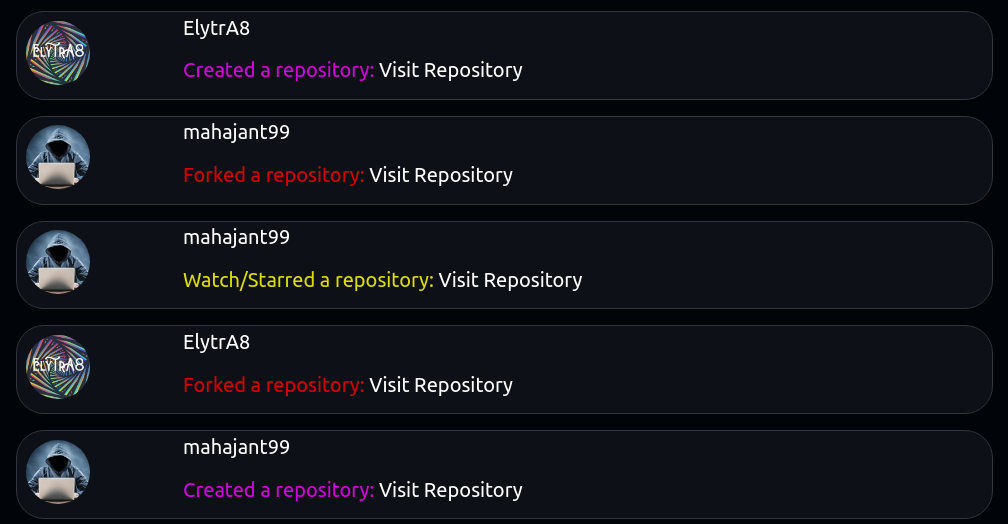
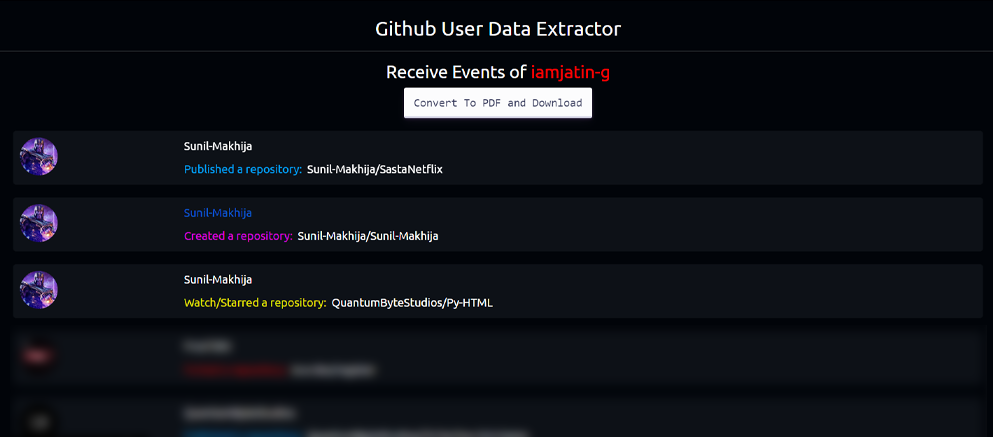
Updated: Latest Screenshots

diff --git a/Data/ReceivedEvents/index.html b/Data/ReceivedEvents/index.html
@@ -1,0 +1,302 @@
+
+	<head>
+        <link href="https://cdn.jsdelivr.net/npm/bootstrap@5.1.3/dist/css/bootstrap.min.css" rel="stylesheet" integrity="sha384-1BmE4kWBq78iYhFldvKuhfTAU6auU8tT94WrHftjDbrCEXSU1oBoqyl2QvZ6jIW3" crossorigin="anonymous">
+    	<link rel="stylesheet" type="text/css" href="style.css">
+        <title>GUDE: iamjatin-g</title>
+        <script src="main.js"></script>
+	</head>
+    <center>
+        <br>
+        <a href="https://github.com/QuantumByteStudios/GitHubUserDataExtracter">
+            <h2>Github User Data Extractor</h2>
+        </a>
+        <hr>
+        <h3>Receive Events of <span style="color: red;">iamjatin-g</span></h3>
+        <button id="downloadButton" class="button-30" onclick="getPDF()">Convert To PDF and Download</button>
+    </center>
+    <body>
+    <div id="cOntent">
+    
+            <div class="card">
+                <div class="row">
+                    <div class="col-2">
+                        <img src="https://avatars.githubusercontent.com/u/82211397?" class="img-fluid profilePicture" alt="ProfilePicture">
+                    </div>
+                    <div class="col-10">
+                        <a href="https://github.com/Sunil-Makhija"><p>Sunil-Makhija</p></a>
+                        <p class="publish">Published a repository: <a target="_blank" href="https://github.com/Sunil-Makhija/SastaNetflix">&nbsp;Sunil-Makhija/SastaNetflix</a></p>
+                    </div>
+                </div>
+            </div>
+            
+            <div class="card">
+                <div class="row">
+                    <div class="col-2">
+                        <img src="https://avatars.githubusercontent.com/u/82211397?" class="img-fluid profilePicture" alt="ProfilePicture">
+                    </div>
+                    <div class="col-10">
+                        <a href="https://github.com/Sunil-Makhija"><p>Sunil-Makhija</p></a>
+                        <p class="create">Created a repository: <a target="_blank" href="https://github.com/Sunil-Makhija/Sunil-Makhija">&nbsp;Sunil-Makhija/Sunil-Makhija</a></p>
+                    </div>
+                </div>
+            </div>
+            
+            <div class="card">
+                <div class="row">
+                    <div class="col-2">
+                        <img src="https://avatars.githubusercontent.com/u/82211397?" class="img-fluid profilePicture" alt="ProfilePicture">
+                    </div>
+                    <div class="col-10">
+                        <a href="https://github.com/Sunil-Makhija"><p>Sunil-Makhija</p></a>
+                        <p class="create">Created a repository: <a target="_blank" href="https://github.com/Sunil-Makhija/Sunil-Makhija">&nbsp;Sunil-Makhija/Sunil-Makhija</a></p>
+                    </div>
+                </div>
+            </div>
+            
+            <div class="card">
+                <div class="row">
+                    <div class="col-2">
+                        <img src="https://avatars.githubusercontent.com/u/82211397?" class="img-fluid profilePicture" alt="ProfilePicture">
+                    </div>
+                    <div class="col-10">
+                        <a href="https://github.com/Sunil-Makhija"><p>Sunil-Makhija</p></a>
+                        <p class="watch-star">Watch/Starred a repository: <a target="_blank" href="https://github.com/QuantumByteStudios/Py-HTML">&nbsp;QuantumByteStudios/Py-HTML</a></p>
+                    </div>
+                </div>
+            </div>
+            
+            <div class="card">
+                <div class="row">
+                    <div class="col-2">
+                        <img src="https://avatars.githubusercontent.com/u/62540315?" class="img-fluid profilePicture" alt="ProfilePicture">
+                    </div>
+                    <div class="col-10">
+                        <a href="https://github.com/FrosT2k5"><p>FrosT2k5</p></a>
+                        <p class="fork">Forked a repository: <a target="_blank" href="https://github.com/FrosT2k5/isadev-register">&nbsp;is-a-dev/register</a></p>
+                    </div>
+                </div>
+            </div>
+            
+            <div class="card">
+                <div class="row">
+                    <div class="col-2">
+                        <img src="https://avatars.githubusercontent.com/u/81068582?" class="img-fluid profilePicture" alt="ProfilePicture">
+                    </div>
+                    <div class="col-10">
+                        <a href="https://github.com/QuantumByteStudios"><p>QuantumByteStudios</p></a>
+                        <p class="publish">Published a repository: <a target="_blank" href="https://github.com/QuantumByteStudios/TicTacToe-GUI-Game">&nbsp;QuantumByteStudios/TicTacToe-GUI-Game</a></p>
+                    </div>
+                </div>
+            </div>
+            
+            <div class="card">
+                <div class="row">
+                    <div class="col-2">
+                        <img src="https://avatars.githubusercontent.com/u/62540315?" class="img-fluid profilePicture" alt="ProfilePicture">
+                    </div>
+                    <div class="col-10">
+                        <a href="https://github.com/FrosT2k5"><p>FrosT2k5</p></a>
+                        <p class="fork">Forked a repository: <a target="_blank" href="https://github.com/FrosT2k5/BlissRomsx86-Docs">&nbsp;BlissRoms-x86/docs</a></p>
+                    </div>
+                </div>
+            </div>
+            
+            <div class="card">
+                <div class="row">
+                    <div class="col-2">
+                        <img src="https://avatars.githubusercontent.com/u/81068582?" class="img-fluid profilePicture" alt="ProfilePicture">
+                    </div>
+                    <div class="col-10">
+                        <a href="https://github.com/QuantumByteStudios"><p>QuantumByteStudios</p></a>
+                        <p class="publish">Published a repository: <a target="_blank" href="https://github.com/QuantumByteStudios/Integer-Class-For-CPP">&nbsp;QuantumByteStudios/Integer-Class-For-CPP</a></p>
+                    </div>
+                </div>
+            </div>
+            
+            <div class="card">
+                <div class="row">
+                    <div class="col-2">
+                        <img src="https://avatars.githubusercontent.com/u/63618806?" class="img-fluid profilePicture" alt="ProfilePicture">
+                    </div>
+                    <div class="col-10">
+                        <a href="https://github.com/dgobalak"><p>dgobalak</p></a>
+                        <p class="watch-star">Watch/Starred a repository: <a target="_blank" href="https://github.com/UWOrbital/OBC-firmware">&nbsp;UWOrbital/OBC-firmware</a></p>
+                    </div>
+                </div>
+            </div>
+            
+            <div class="card">
+                <div class="row">
+                    <div class="col-2">
+                        <img src="https://avatars.githubusercontent.com/u/81068582?" class="img-fluid profilePicture" alt="ProfilePicture">
+                    </div>
+                    <div class="col-10">
+                        <a href="https://github.com/QuantumByteStudios"><p>QuantumByteStudios</p></a>
+                        <p class="publish">Published a repository: <a target="_blank" href="https://github.com/QuantumByteStudios/Py-HTML">&nbsp;QuantumByteStudios/Py-HTML</a></p>
+                    </div>
+                </div>
+            </div>
+            
+            <div class="card">
+                <div class="row">
+                    <div class="col-2">
+                        <img src="https://avatars.githubusercontent.com/u/63618806?" class="img-fluid profilePicture" alt="ProfilePicture">
+                    </div>
+                    <div class="col-10">
+                        <a href="https://github.com/dgobalak"><p>dgobalak</p></a>
+                        <p class="publish">Published a repository: <a target="_blank" href="https://github.com/dgobalak/File-Insights">&nbsp;dgobalak/File-Insights</a></p>
+                    </div>
+                </div>
+            </div>
+            
+            <div class="card">
+                <div class="row">
+                    <div class="col-2">
+                        <img src="https://avatars.githubusercontent.com/u/62540315?" class="img-fluid profilePicture" alt="ProfilePicture">
+                    </div>
+                    <div class="col-10">
+                        <a href="https://github.com/FrosT2k5"><p>FrosT2k5</p></a>
+                        <p class="watch-star">Watch/Starred a repository: <a target="_blank" href="https://github.com/chubin/wttr.in">&nbsp;chubin/wttr.in</a></p>
+                    </div>
+                </div>
+            </div>
+            
+            <div class="card">
+                <div class="row">
+                    <div class="col-2">
+                        <img src="https://avatars.githubusercontent.com/u/81068582?" class="img-fluid profilePicture" alt="ProfilePicture">
+                    </div>
+                    <div class="col-10">
+                        <a href="https://github.com/QuantumByteStudios"><p>QuantumByteStudios</p></a>
+                        <p class="watch-star">Watch/Starred a repository: <a target="_blank" href="https://github.com/user-simon/QuickUI">&nbsp;user-simon/QuickUI</a></p>
+                    </div>
+                </div>
+            </div>
+            
+            <div class="card">
+                <div class="row">
+                    <div class="col-2">
+                        <img src="https://avatars.githubusercontent.com/u/63618806?" class="img-fluid profilePicture" alt="ProfilePicture">
+                    </div>
+                    <div class="col-10">
+                        <a href="https://github.com/dgobalak"><p>dgobalak</p></a>
+                        <p class="watch-star">Watch/Starred a repository: <a target="_blank" href="https://github.com/UWOrbital/OBC-firmware">&nbsp;UWOrbital/OBC-firmware</a></p>
+                    </div>
+                </div>
+            </div>
+            
+            <div class="card">
+                <div class="row">
+                    <div class="col-2">
+                        <img src="https://avatars.githubusercontent.com/u/63618806?" class="img-fluid profilePicture" alt="ProfilePicture">
+                    </div>
+                    <div class="col-10">
+                        <a href="https://github.com/dgobalak"><p>dgobalak</p></a>
+                        <p class="watch-star">Watch/Starred a repository: <a target="_blank" href="https://github.com/UWOrbital/UWOrbital-firmware-21">&nbsp;UWOrbital/UWOrbital-firmware-21</a></p>
+                    </div>
+                </div>
+            </div>
+            
+            <div class="card">
+                <div class="row">
+                    <div class="col-2">
+                        <img src="https://avatars.githubusercontent.com/u/63618806?" class="img-fluid profilePicture" alt="ProfilePicture">
+                    </div>
+                    <div class="col-10">
+                        <a href="https://github.com/dgobalak"><p>dgobalak</p></a>
+                        <p class="watch-star">Watch/Starred a repository: <a target="_blank" href="https://github.com/UWOrbital/UWOrbital-firmware-21">&nbsp;UWOrbital/UWOrbital-firmware-21</a></p>
+                    </div>
+                </div>
+            </div>
+            
+            <div class="card">
+                <div class="row">
+                    <div class="col-2">
+                        <img src="https://avatars.githubusercontent.com/u/62540315?" class="img-fluid profilePicture" alt="ProfilePicture">
+                    </div>
+                    <div class="col-10">
+                        <a href="https://github.com/FrosT2k5"><p>FrosT2k5</p></a>
+                        <p class="watch-star">Watch/Starred a repository: <a target="_blank" href="https://github.com/SkyLab-Devs/CosmicUserbot">&nbsp;SkyLab-Devs/CosmicUserbot</a></p>
+                    </div>
+                </div>
+            </div>
+            
+            <div class="card">
+                <div class="row">
+                    <div class="col-2">
+                        <img src="https://avatars.githubusercontent.com/u/81068582?" class="img-fluid profilePicture" alt="ProfilePicture">
+                    </div>
+                    <div class="col-10">
+                        <a href="https://github.com/QuantumByteStudios"><p>QuantumByteStudios</p></a>
+                        <p class="watch-star">Watch/Starred a repository: <a target="_blank" href="https://github.com/pyscript/pyscript">&nbsp;pyscript/pyscript</a></p>
+                    </div>
+                </div>
+            </div>
+            
+            <div class="card">
+                <div class="row">
+                    <div class="col-2">
+                        <img src="https://avatars.githubusercontent.com/u/62540315?" class="img-fluid profilePicture" alt="ProfilePicture">
+                    </div>
+                    <div class="col-10">
+                        <a href="https://github.com/FrosT2k5"><p>FrosT2k5</p></a>
+                        <p class="watch-star">Watch/Starred a repository: <a target="_blank" href="https://github.com/azharimm/phone-specs-api">&nbsp;azharimm/phone-specs-api</a></p>
+                    </div>
+                </div>
+            </div>
+            
+            <div class="card">
+                <div class="row">
+                    <div class="col-2">
+                        <img src="https://avatars.githubusercontent.com/u/62540315?" class="img-fluid profilePicture" alt="ProfilePicture">
+                    </div>
+                    <div class="col-10">
+                        <a href="https://github.com/FrosT2k5"><p>FrosT2k5</p></a>
+                        <p class="watch-star">Watch/Starred a repository: <a target="_blank" href="https://github.com/D3vd/Meme_Api">&nbsp;D3vd/Meme_Api</a></p>
+                    </div>
+                </div>
+            </div>
+            
+            <div class="card">
+                <div class="row">
+                    <div class="col-2">
+                        <img src="https://avatars.githubusercontent.com/u/81068582?" class="img-fluid profilePicture" alt="ProfilePicture">
+                    </div>
+                    <div class="col-10">
+                        <a href="https://github.com/QuantumByteStudios"><p>QuantumByteStudios</p></a>
+                        <p class="publish">Published a repository: <a target="_blank" href="https://github.com/QuantumByteStudios/Java-ClientAndServer-Communication">&nbsp;QuantumByteStudios/Java-ClientAndServer-Communication</a></p>
+                    </div>
+                </div>
+            </div>
+            
+    <br>
+    <div class="container stats">
+        <center>
+            <div class="row">
+                    <br>
+                    <div class="col-md-12">
+                        <img src="	https://github-readme-stats.vercel.app/api/top-langs?username=iamjatin-g&langs_count=8" alt="GitHubUserDataExtracter">
+                    </div>
+                    <br>
+                    <div class="col-md-12">
+                        <img src="	https://github-readme-stats.vercel.app/api?username=iamjatin-g&show_icons=true&locale=en" alt="GitHubUserDataExtracter">
+                    </div>
+                    <br>
+                    <div class="col-md-12">
+                        <img src="	https://github-readme-streak-stats.herokuapp.com/?user=iamjatin-g&" alt="GitHubUserDataExtracter"><br>
+                        <br><br>
+                    </div>                    
+                    <hr><br><br>
+                    <div class="col-md-12">
+                        <img class="imgCustStyle" src="	https://activity-graph.herokuapp.com/graph?username=iamjatin-g&theme=github" alt="GitHubUserDataExtracter"><br>
+                    </div>
+                    <br>
+                    <div class="col-md-12">
+                        <img class="imgCustStyle" src="	https://github-profile-summary-cards.vercel.app/api/cards/profile-details?username=iamjatin-g&theme=monokai" alt="GitHubUserDataExtracter"><br>
+                    </div>
+                    <br>
+            </div>
+            <br>
+        </center>
+    </div>
+    

diff --git a/Data/ReceivedEvents/main.js b/Data/ReceivedEvents/main.js
@@ -1,3 +1,4 @@
 function getPDF() {
+  document.getElementById("downloadButton").style.display = "none";
   window.print();
 }
